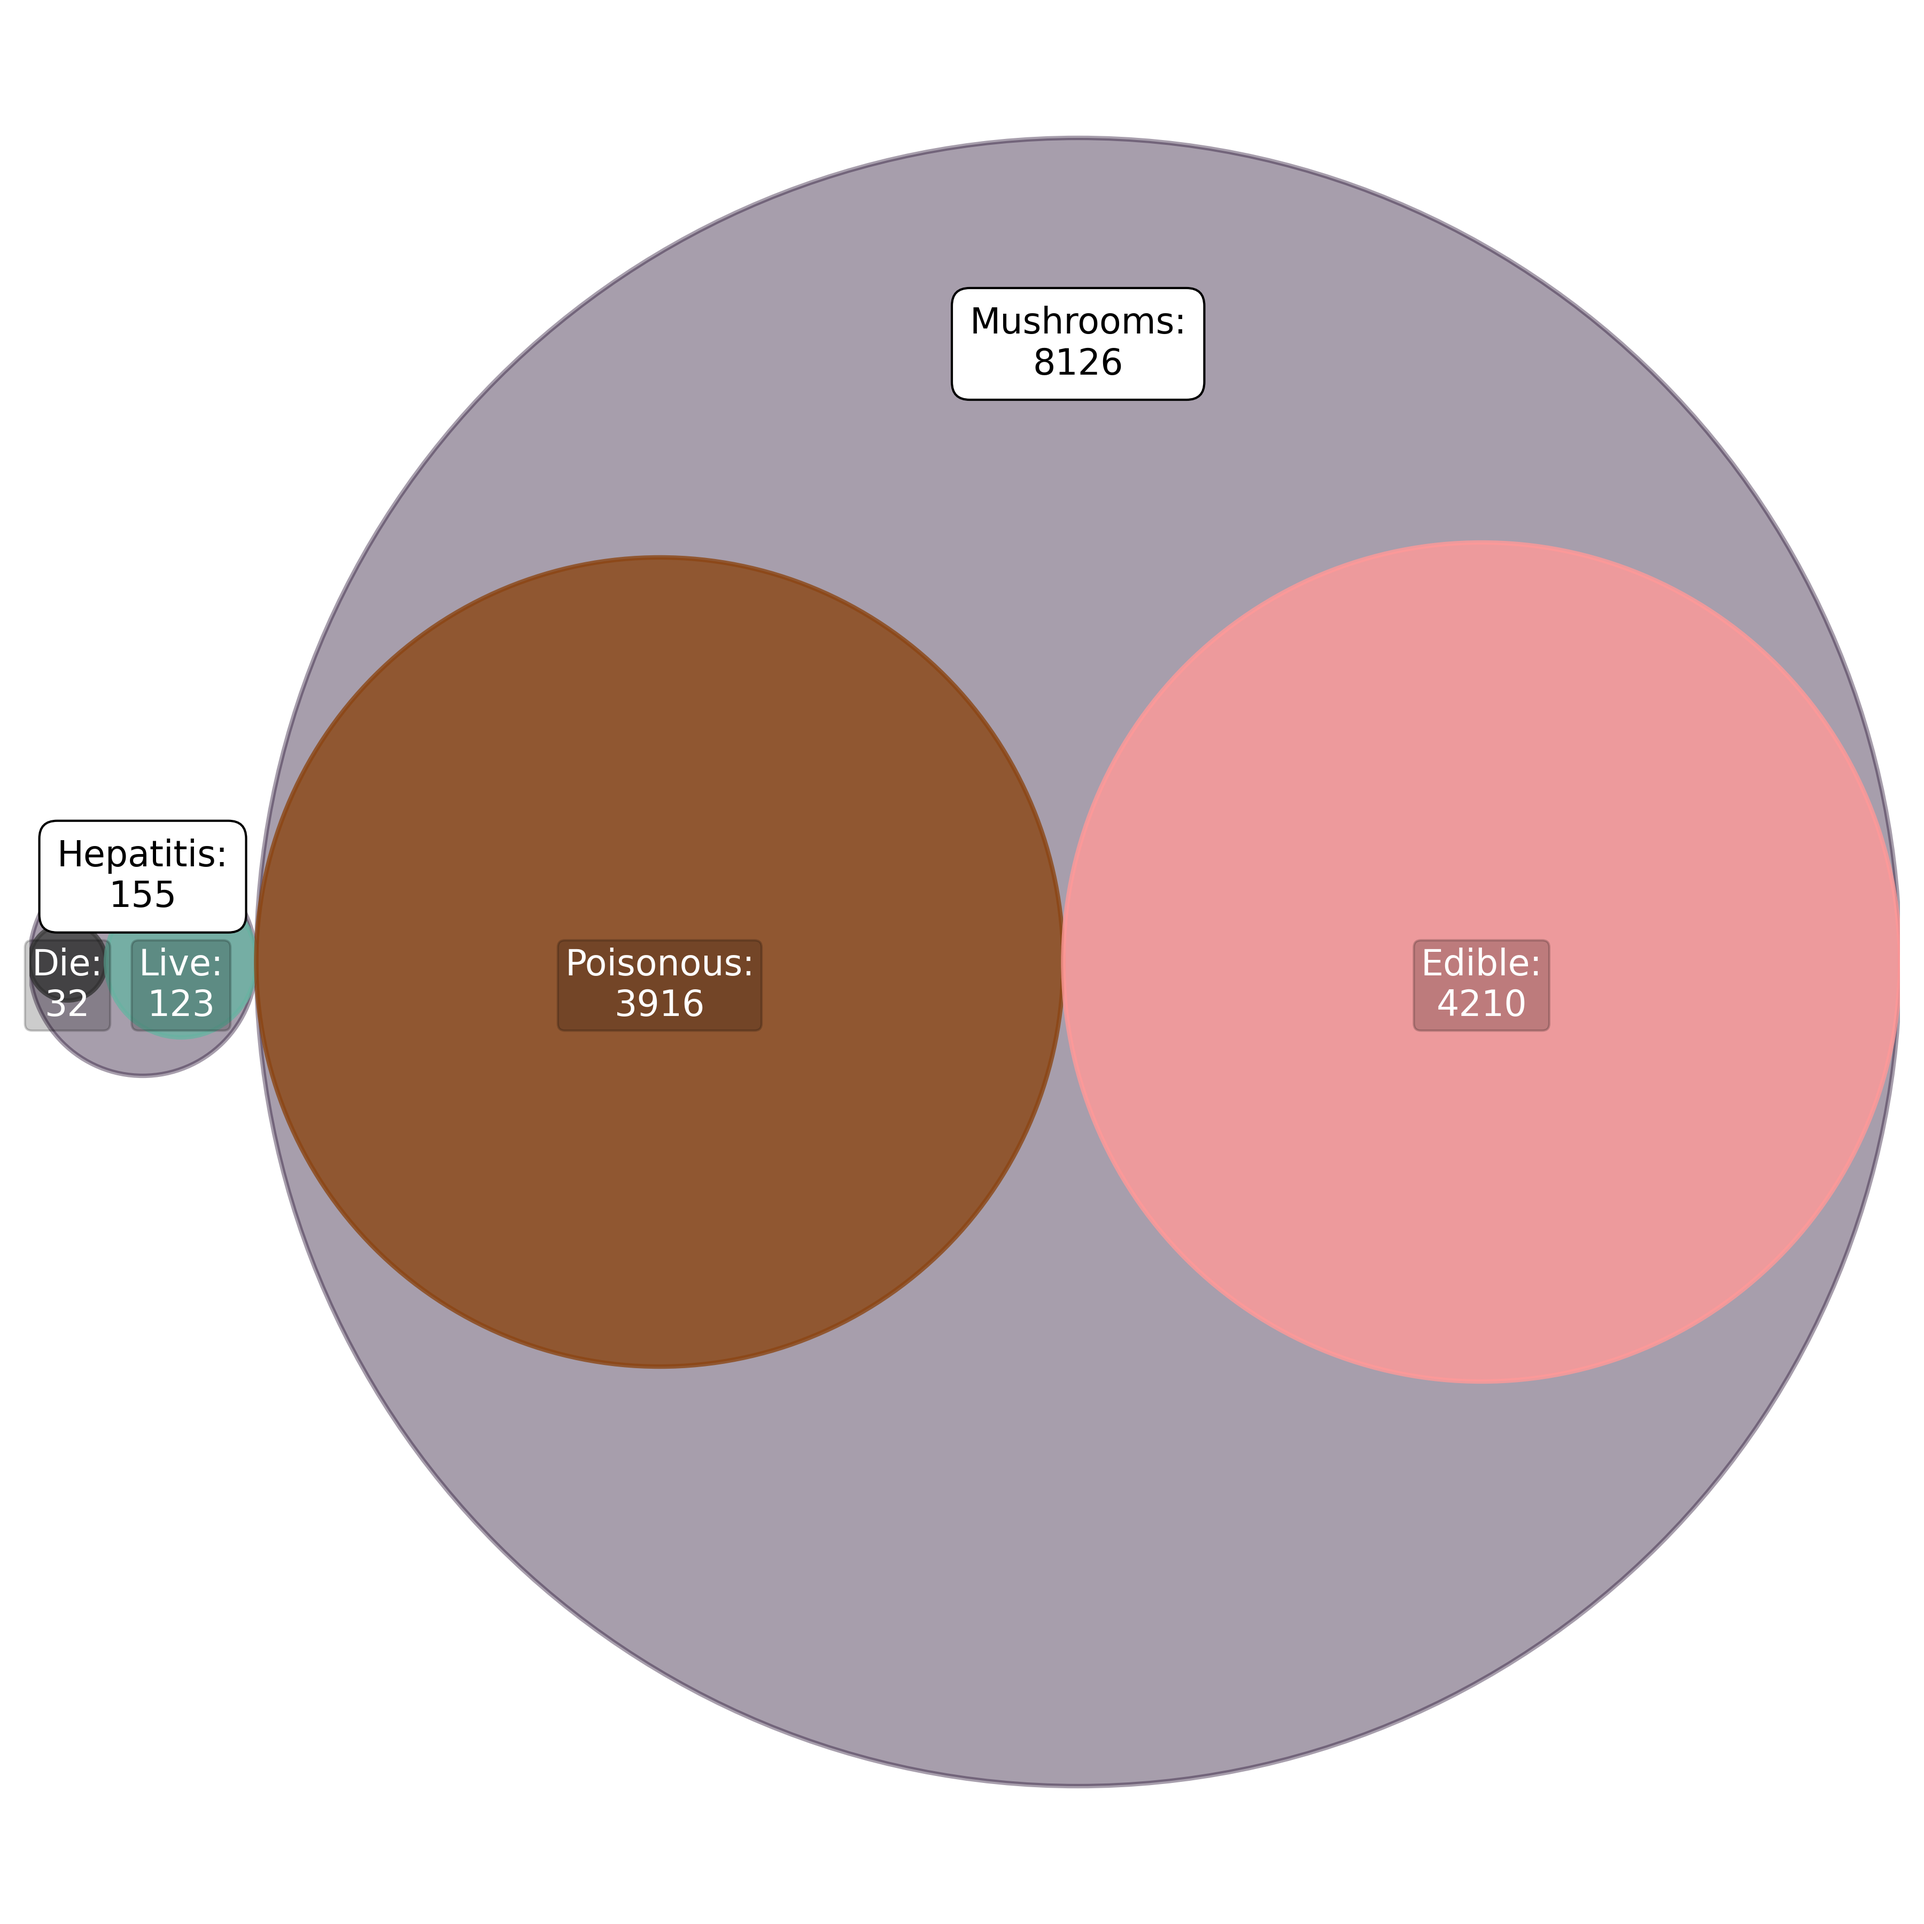
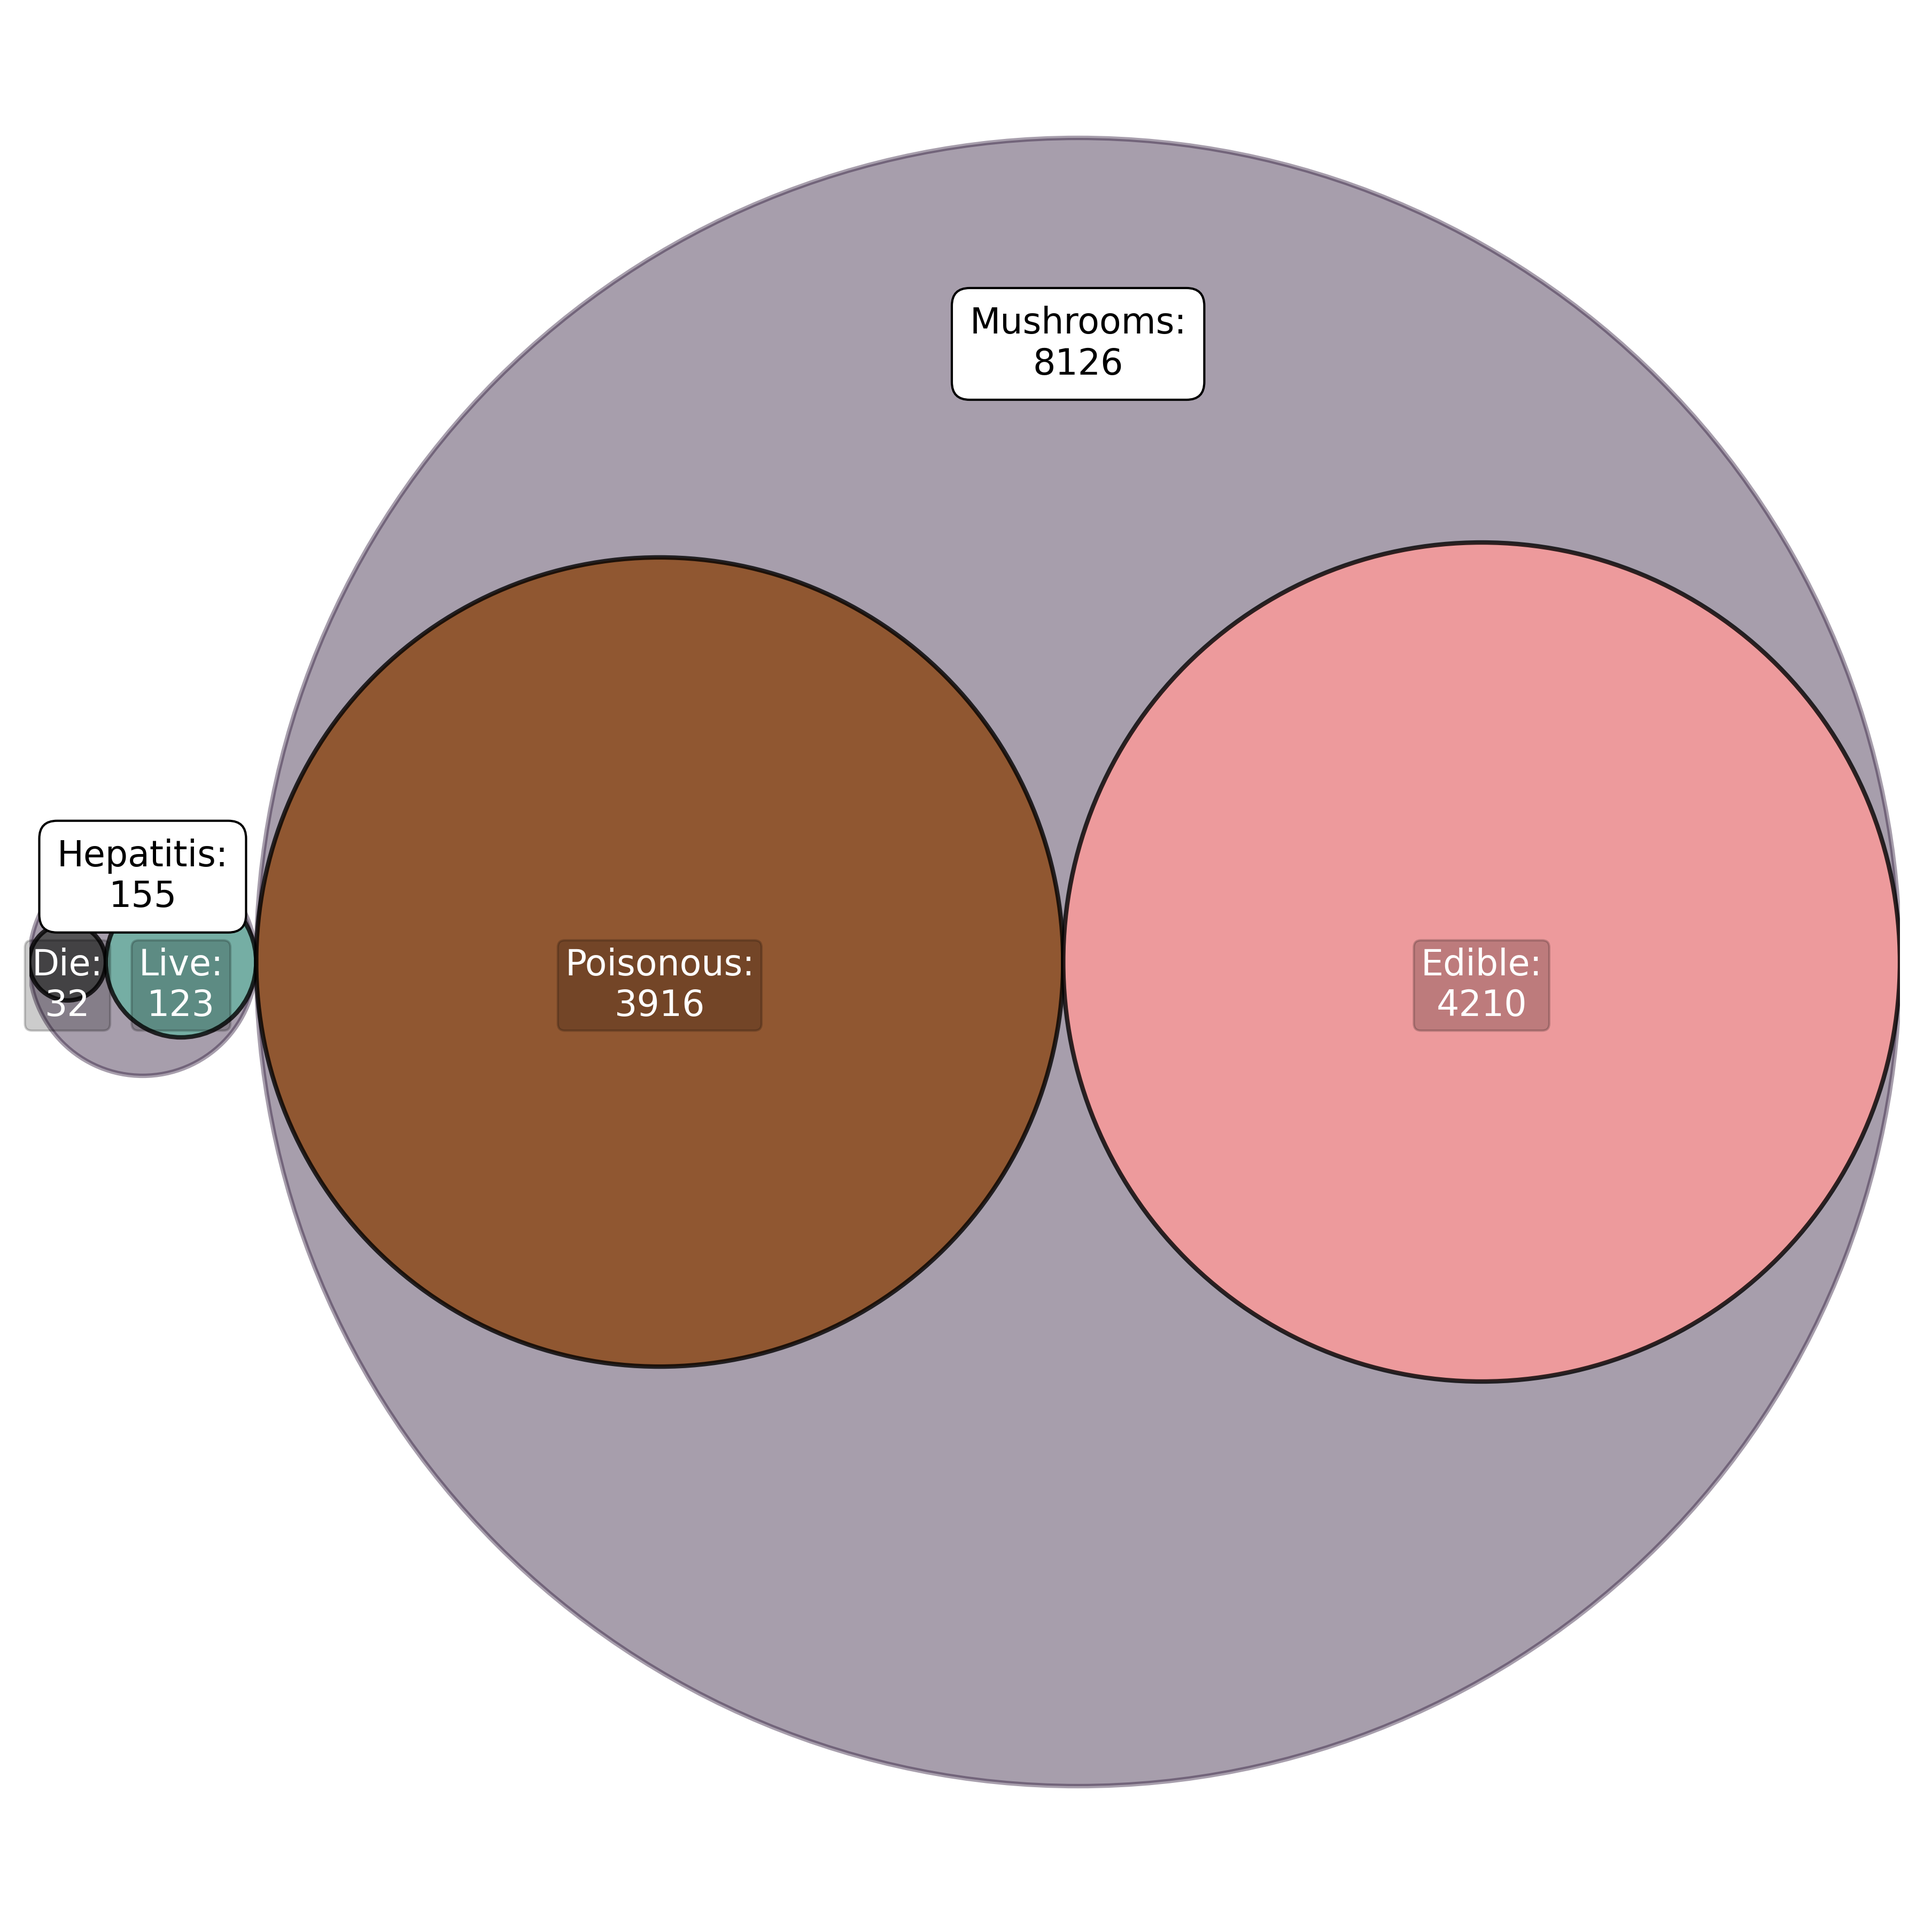
add border to dataset-partitions fig

diff --git a/work2/tools/analysis/run_dataset_analysis.py b/work2/tools/analysis/run_dataset_analysis.py
@@ -110,7 +110,7 @@ def plot_dataset_partitions(full_mushroom_df, full_hepatitis_df, REPORTS_DIR):
         x, y, r = circle
         label = f"{circle.ex['id']}:\n{circle.ex['datum']}"
         color = color_map[circle.ex["id"]]
-        ax.add_patch(plt.Circle((x, y), r, alpha=0.8, linewidth=2, color=color, edgecolor="black"))
+        ax.add_patch(plt.Circle((x, y), r, alpha=0.8, linewidth=2, facecolor=color, edgecolor="black"))
         plt.annotate(
             label,
             (x, y - 0.025),
